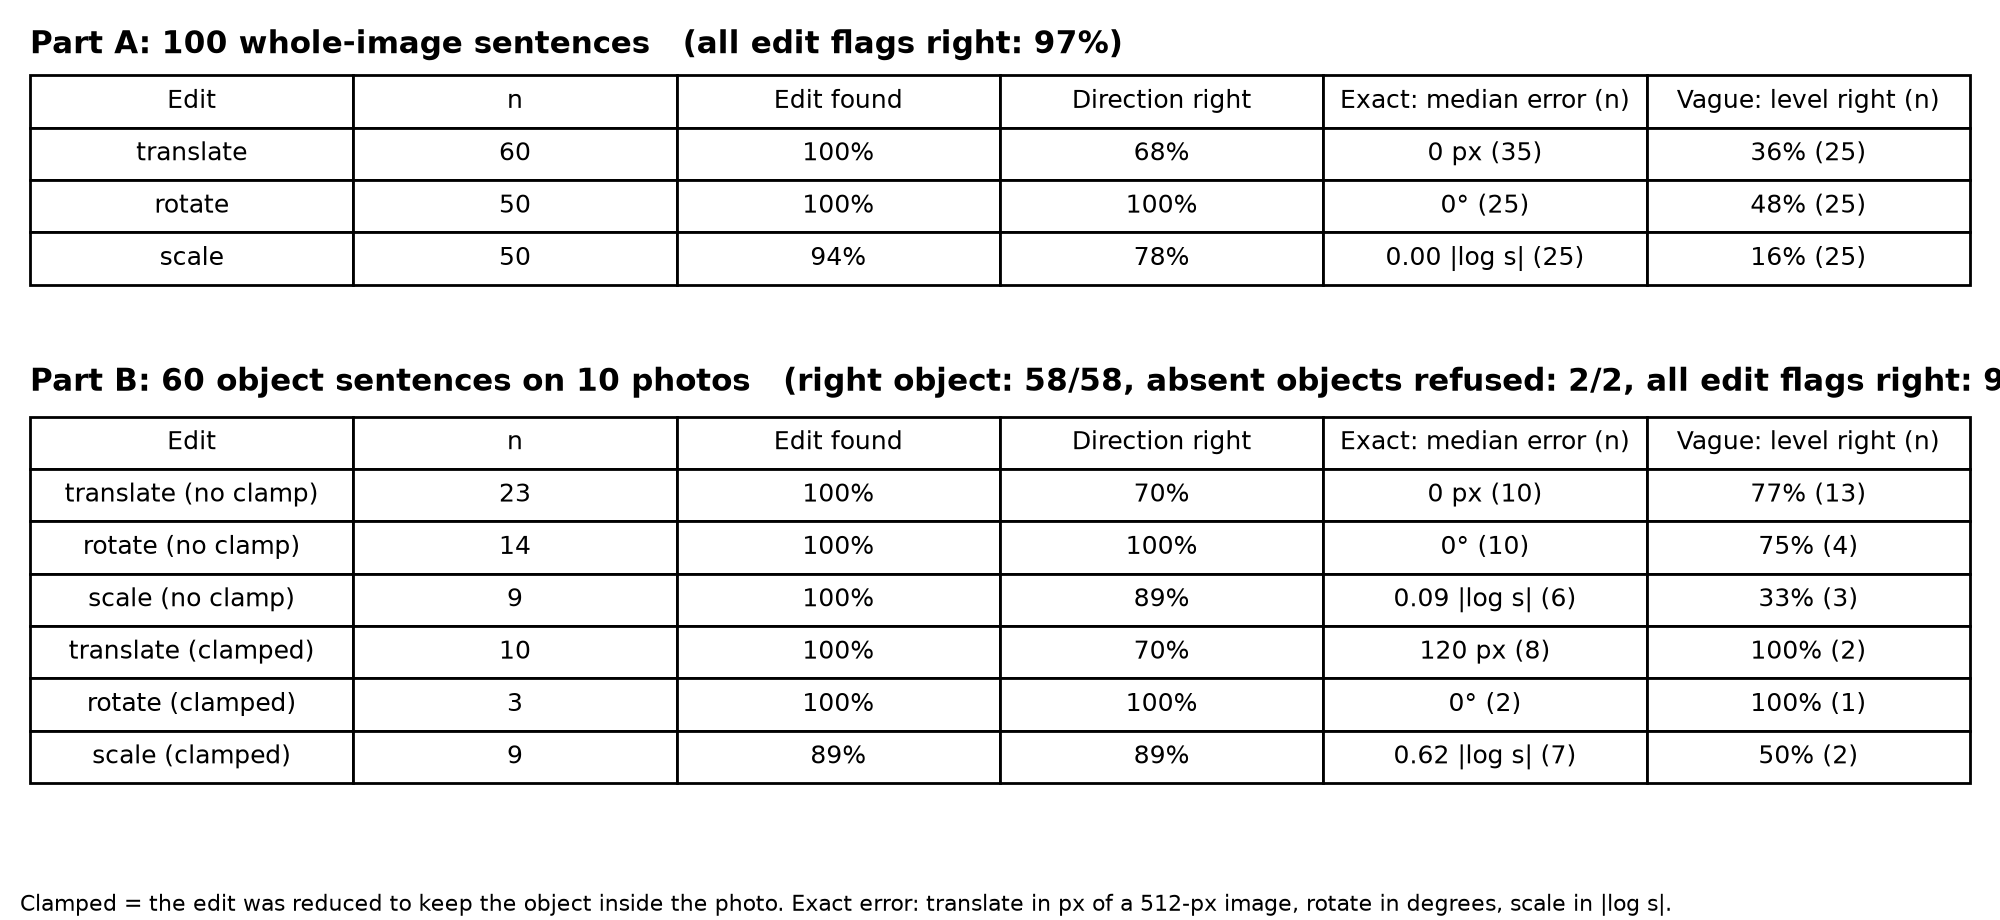
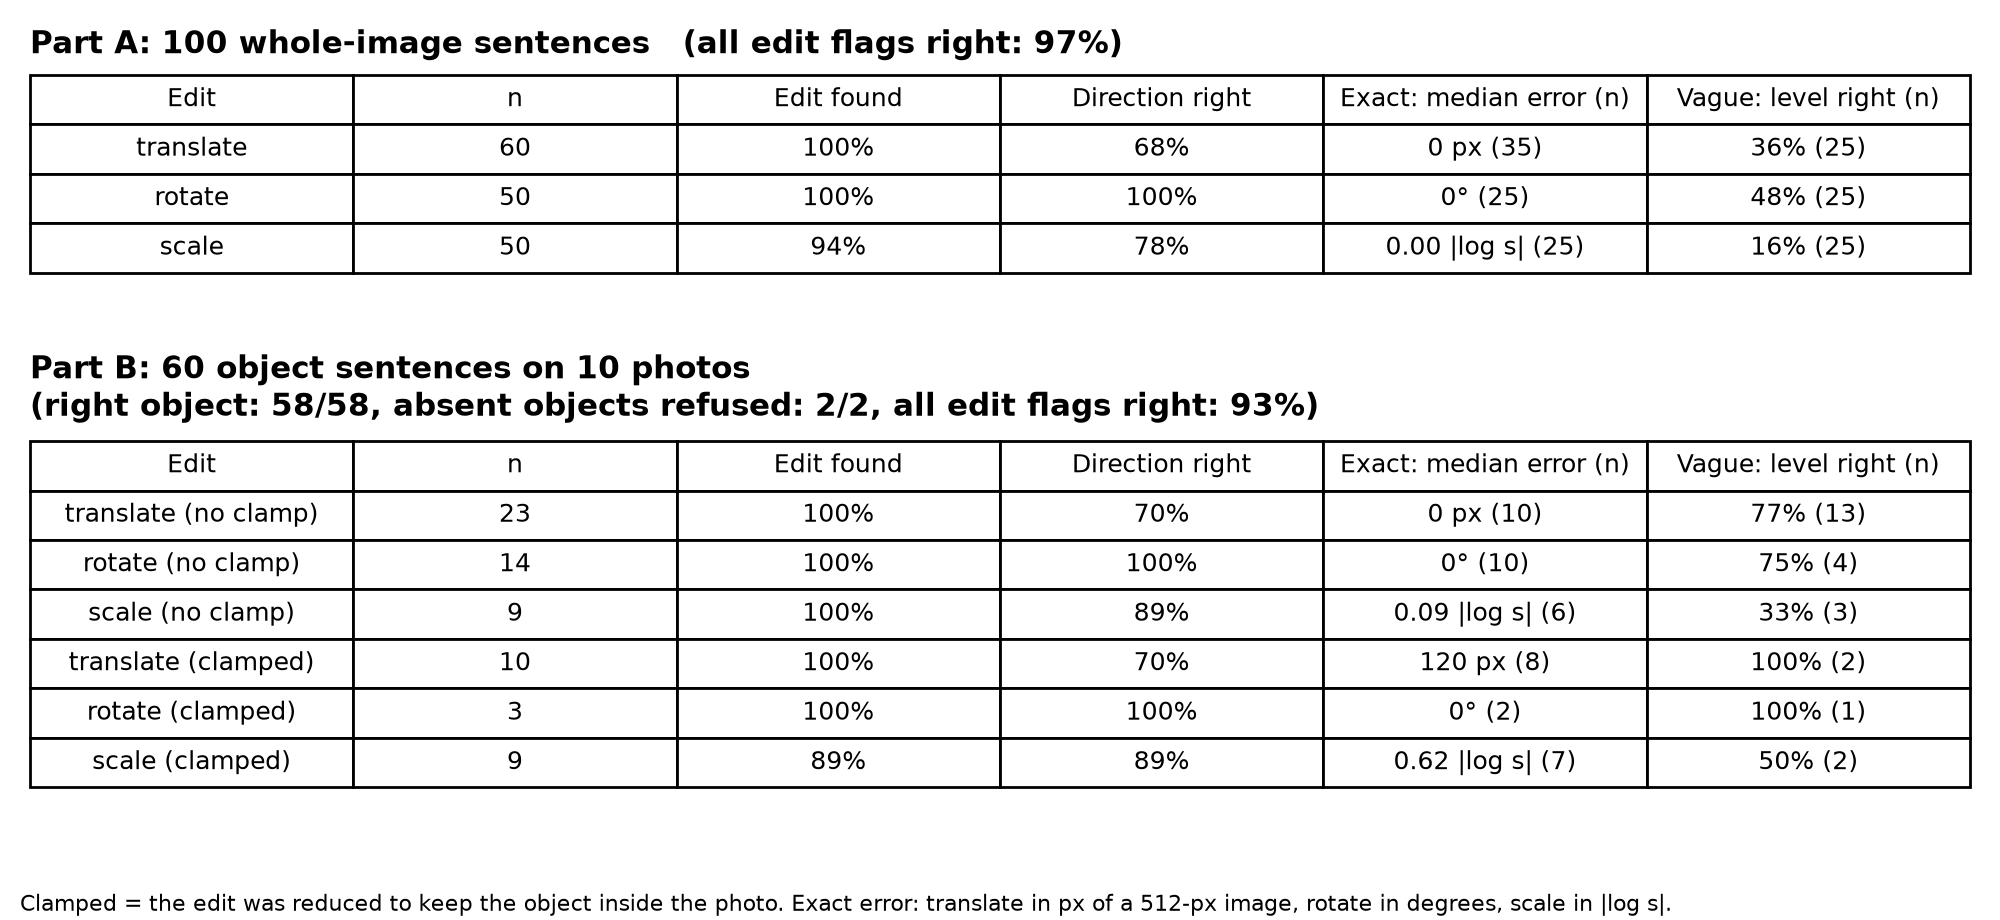
README for the finished system; --share; run_all scene steps; SEEN_VERBS; table title
Claude-Session: https://claude.ai/code/session_01WSyrYXSzuntPbgrydht9TQ

Changed region(s): [[0.0, 0.3652, 1.0, 0.8826], [0.0, 0.0913, 0.992, 0.3348]]

diff --git a/tools/fig_fresh_tables.py b/tools/fig_fresh_tables.py
@@ -39,7 +39,7 @@ body_b = (rows(b[~b["clamped"] & ~b["failed"]], " (no clamp)") + rows(b[b["clamp
 fig, (top, bottom) = plt.subplots(2, 1, figsize=(10, 4.6), gridspec_kw={"height_ratios": [1, 1.7]})
 table(top, f"Part A: {len(sa)} whole-image sentences   (all edit flags right: {sa['presence_ok'].mean():.0%})",
       rows(a))
-table(bottom, f"Part B: {len(sb)} object sentences on 10 photos   (right object: "
+table(bottom, f"Part B: {len(sb)} object sentences on 10 photos\n(right object: "
       f"{present['object_ok'].sum()}/{len(present)}, absent objects refused: {int(sb['failed'].sum())}/2, "
       f"all edit flags right: {present['presence_ok'].mean():.0%})", body_b)
 fig.text(0.01, 0.01, "Clamped = the edit was reduced to keep the object inside the photo. "

diff --git a/src/dyooptix/models/breakdown.py b/src/dyooptix/models/breakdown.py
@@ -10,7 +10,8 @@ from dyooptix.models.metrics import evaluate
 from dyooptix.models.mlp import REPS, GatedMLP, load_features, predict, standardise
 
 SPLITS = ["test", "test_unseen_templates", "geobench"]
-SEEN_VERBS = vocab.TRANSLATE_VERBS + vocab.ROTATE_VERBS + vocab.SCALE_UP_VERBS + vocab.SCALE_DOWN_VERBS
+SEEN_VERBS = (vocab.TRANSLATE_VERBS + vocab.ROTATE_VERBS + vocab.SCALE_UP_VERBS + vocab.SCALE_DOWN_VERBS
+              + vocab.SCALE_NEUTRAL_VERBS)
 
 
 def load_rows(split):

diff --git a/app.py b/app.py
@@ -85,4 +85,4 @@ demo = gr.Interface(
 )
 
 if __name__ == "__main__":
-    demo.launch()
+    demo.launch(share="--share" in sys.argv)   # python app.py --share: temporary public link

diff --git a/README.md b/README.md
@@ -1,7 +1,9 @@
 # Predicting Geometric Edit Parameters from Natural Language
 
-Type an edit instruction such as *"rotate it 90 degrees clockwise and shrink it to 0.7x"*;
-the model predicts the **translation, rotation and scale** it describes and applies them to an image.
+Type an edit instruction such as *"move the cup 100 px to the right and rotate it 20 degrees clockwise"*;
+the system predicts the **translation, rotation and scale** it describes, finds the object it names in
+the photo, and applies the edit. Some amounts come from the picture itself:
+*"move the circle until it touches the square"* moves exactly as far as the gap in that image.
 
 IE 643 Deep Learning, IIT Bombay · Team **DyoOptix**: Kaushik Kuppili (26M1507), Akash Gudi (26M1516)
 
@@ -9,18 +11,35 @@ IE 643 Deep Learning, IIT Bombay · Team **DyoOptix**: Kaushik Kuppili (26M1507)
 
 ## How it works
 
-1. **Text → numbers.** Each instruction is encoded with one of five text representations:
-   hand-crafted keyword features, TF-IDF, frozen CLIP (ViT-B/32 text encoder), frozen MiniLM
-   (all-MiniLM-L6-v2), or hand features + MiniLM side by side.
-2. **Numbers → edit.** A small **gated multi-head MLP** predicts which edits are present
-   (translate / rotate / scale) and their values `[tx, ty, cos θ, sin θ, log s]`.
-   Edits judged absent are set to "do nothing".
-3. **Edit → image.** The values become a 2×3 affine matrix applied to the **whole image about
-   its centre** (OpenCV, bilinear for images, nearest for masks).
+**Text lane (Stage 1, plus inference-time rules)**
 
-Training data is synthetic (7,000 generated instructions with exact targets). Evaluation uses
-held-out synthetic splits, unseen sentence templates, the GeoBench 2D benchmark (unseen wording,
-real images) and a set of 98 human-written instructions.
+1. **Clauses.** A combined instruction is split at *and / then / commas*; each clause is predicted
+   separately and the edits are added up (exact, because rotation and scale act about the object's
+   own centre). Inference only, no retraining.
+2. **Text → numbers.** Each clause is encoded with hand-crafted keyword features (44 flags + 4 numbers)
+   and frozen MiniLM (all-MiniLM-L6-v2) side by side. A small **gated multi-head MLP** predicts which
+   edits are present (translate / rotate / scale) and their values `[tx, ty, cos θ, sin θ, log s]`.
+   Edits judged absent are set to "do nothing".
+3. **Exact numbers.** When a clause writes an amount (degrees, radians, px, %, ×, times, double/half),
+   that number replaces the network's guess; the network keeps the edit type and direction.
+   Moves are snapped to the 4 main directions (8 when the clause names a diagonal).
+
+**Image lane (novelty)**
+
+4. **Which object.** Grounding DINO turns the object word into a box and SAM turns the box into a mask
+   (Grounded-SAM). If no object is named, the main object is edited; "the image / picture / photo"
+   edits the whole image. A named object that is not in the photo is refused with a message.
+5. **Edits from the scene.** "until it touches the X", "beside / next to / near the X",
+   "to the left of the X" and "until it touches the left edge" are measured from the masks:
+   the text gives the direction, the picture gives the distance.
+6. **Clamp.** An object edit is reduced, with a ⚠ warning, so the object stays inside the photo
+   (scale, then rotation, then translation).
+7. **Edit → image.** One 2×3 affine matrix. Whole image: warped about its centre. One object: LaMa fills
+   the hole it leaves and the moved object is pasted with a soft edge.
+
+Training data is synthetic (7,000 generated instructions with exact targets). Evaluation uses held-out
+synthetic splits, unseen sentence templates, the GeoBench 2D benchmark (unseen wording, real images),
+98 human-written instructions, a shape test set with exact expected moves, and a fresh LLM-written test set.
 
 ## Setup
 
@@ -34,28 +53,37 @@ python -m venv .venv
 .\.venv\Scripts\Activate.ps1
 pip install -r requirements.txt --extra-index-url https://download.pytorch.org/whl/cpu
 pip install -e .
+pytest                               # 74 tests; no model downloads
 ```
 
-The trained models are included in `outputs/`, so the demo runs without training.
+The trained text models are included in `outputs/`, so the demo runs without training.
+Grounding DINO, SAM and LaMa download on first use (over 1 GB in total) into `data/hf_cache`;
+set the environment variable `DYOOPTIX_CACHE` to put them elsewhere.
 
 ## Run the demo
 
 ```powershell
-python app.py
+python app.py            # local: http://127.0.0.1:7860
+python app.py --share    # also a temporary public link
 ```
 
-Open the printed local URL (usually http://127.0.0.1:7860). Type an instruction, optionally upload
-an image (otherwise a test card with a grid and an upward arrow is used), and choose a text
-representation:
+Type an instruction, optionally upload a photo (otherwise a test card with a grid, a square, a circle
+and an upward arrow is used), and optionally type an object in the **Object** box to choose which object
+moves. The output shows the edited image, the detected edits with their probabilities, tx/ty in pixels,
+the angle, the scale factor, the affine matrix and any clamp warnings. When several objects look equally
+like the main one, a second image shows the candidates.
 
-- **hand+minilm** (default): best on wording the model was not trained on
-- **hand**: most precise with known words and exact numbers
-- **minilm**: sentence embedding only
+The best text model (hand features + MiniLM) is used automatically. **Advanced** lets you compare
+hand / MiniLM alone and turn clause splitting off.
 
-The output shows the edited image, the detected edits with their probabilities, tx/ty in pixels,
-the angle, the scale factor and the affine matrix.
+On a CPU a whole-image edit is instant; an object edit on a large photo takes about 15 s once the models
+are loaded (the first click on a photo also runs detection and segmentation).
 
-## Reproduce all results
+Conventions used by the demo: a rotation with no direction word is counter-clockwise; a number with no
+unit is pixels for moves and degrees for turns; "to 75%" means ×0.75 and "by 30%" means ×1.3 or ×0.7;
+"N px" means N real pixels of the uploaded photo.
+
+## Reproduce the results
 
 ```powershell
 python tools/download_geobench.py   # once: GeoBench 2D into data/hf_cache
@@ -65,13 +93,25 @@ python tools/download_geobench.py   # once: GeoBench 2D into data/hf_cache
 `run_all.ps1` runs, in order and stopping at the first failure: unit tests → data generation and
 splits → GeoBench test file → text encoding → constant and ridge baselines → gated MLP (3 seeds)
 → per-group breakdown and noise-floor oracle → GeoBench image warping and IoU → human test set →
-report figures. It takes roughly 15–25 minutes on a CPU. Results are written to `outputs/`
-(CSV tables, models, `outputs/figures/`).
+whole vs split vs split + exact numbers → shape test set → scene-derived edits on the shape set →
+report figures. Results are written to `outputs/`.
+
+Run by hand (the fresh-set scorer overwrites the committed one-time results):
+
+```powershell
+python -m dyooptix.models.fig_scene      # one sentence, four gaps: outputs/fig_scene_gaps.png
+python tools/fig_demo.py                 # demo examples with predicted parameters
+python -m dyooptix.models.eval_fresh     # fresh LLM-written test set (scored once on 21 Nov 2026)
+python tools/fig_fresh_charts.py
+python tools/fig_fresh_tables.py
+```
+
+`git checkout stage1` gives the exact code submitted for the intensive assessment.
 
 ## Results
 
-Corner displacement error of a 512×512 image (px, lower is better), gated MLP, mean ± std over
-3 seeds:
+**Stage 1** (generator v3). Corner displacement error of a 512×512 image (px, lower is better),
+gated MLP, mean ± std over 3 seeds:
 
 | Representation | Test | Unseen templates | GeoBench |
 |---|---|---|---|
@@ -83,24 +123,29 @@ Corner displacement error of a 512×512 image (px, lower is better), gated MLP, 
 | TF-IDF | 113.4 ± 2.4 | 73.9 ± 3.6 | 108.1 ± 2.9 |
 | oracle (noise floor) | 23.2 | 19.6 | – |
 
-- Hand features are best on the training vocabulary; hand + MiniLM is best on unseen wording.
-- On GeoBench images, transform-consistency IoU is 0.555 for hand + MiniLM and 0.536 for hand,
-  against 0.457 for doing nothing.
-- On the 98 human-written instructions, hand + MiniLM detects the right set of edits in 78% of
-  sentences. Direction is the main weakness: 0.43 for translation, 0.57 for rotation, 0.81 for scale.
+**Novelty** (generator v4 + inference rules, hand + MiniLM):
+
+- Combined edits, synthetic test, corner error: 103.8 px (whole sentence) → 55.4 (clause splitting)
+  → 43.3 (+ exact numbers); noise floor 40.4.
+- Scene-derived edits ("until it touches", "beside", "until the edge") on 56 shape images with no number
+  in the sentence: **56/56 within 3 px** of the exact geometric move, with true masks and with
+  Grounded-SAM masks. The same sentence on four gaps moves +40 / +100 / +180 / +260 px
+  (exact +39 / +99 / +179 / +259).
+- Fresh LLM-written set, scored once. Part A (100 whole-image sentences): all edit flags right 97%;
+  direction right translate 68%, rotate 100%, scale 78%; written amounts median error 0 px / 0°.
+  Part B (60 object sentences, 10 photos): right object 58/58, both absent objects refused.
+  The set was written by an LLM, so these numbers are likely optimistic.
 
 ## Known limitations
 
-- **Direction wording.** Rotations phrased as "turn left/right" and bare "left/right" for
-  translation were not in the training vocabulary, so their direction is often wrong.
-- **Number formats.** Percentages ("by 30%"), "times", "twice/half" and numbers without units
-  ("rotate 45") are not reliably read.
-- **Combined edits.** With two or three edits in one sentence, amounts can be attached to the
-  wrong edit.
-- **Scope.** Edits are relative and apply to the whole image. Absolute positions ("move it to the
-  corner"), flips, and edits to one specific object are not supported.
-- Ranges: explicit rotations up to 180°, translations up to 300 px (at 512 px width),
-  scale ×0.25 to ×4.
+- **Diagonal moves** are often kept on one axis (19 of the 41 direction errors on the fresh set).
+- **"upward", "leftward"** (GeoBench-style words without the "s") are not in the training vocabulary.
+- **Vague sizes**: "slightly" from a new writer often lands in another size level.
+- **Scope**: one object per instruction; 2D edits only (no shadows or depth); no absolute positions
+  ("to the corner"), flips or word-only angles ("upside down").
+- **Speed**: object edits take seconds on a CPU.
+- Ranges learned by the network: rotations up to 180°, moves up to 300 px at 512 width, scale ×0.25 to ×4
+  (written numbers are copied exactly, so they are not limited by these ranges).
 
 ## Repository layout
 
@@ -108,18 +153,21 @@ Corner displacement error of a 512×512 image (px, lower is better), gated MLP, 
 |---|---|
 | `app.py` | Gradio demo |
 | `run_all.ps1` | one-command pipeline |
-| `src/dyooptix/data/` | vocabulary, magnitude ranges, data generator, splits, GeoBench conversion |
-| `src/dyooptix/geom/` | affine matrix construction and image warping |
-| `src/dyooptix/models/` | text encoding, metrics, baselines, gated MLP, evaluation, figures |
-| `tests/` | unit tests for the affine maths |
-| `tools/` | GeoBench download and inspection scripts |
+| `src/dyooptix/data/` | vocabulary, magnitude ranges, data generator, splits, GeoBench conversion, shape test set |
+| `src/dyooptix/geom/` | affine matrix, image warping, clamp, Grounded-SAM grounding, LaMa inpainting, object editing, contact geometry |
+| `src/dyooptix/models/` | text encoding, metrics, baselines, gated MLP, evaluations, clause splitting, exact numbers, relations, scene, pipeline, figures |
+| `tests/` | 74 unit tests |
+| `tools/` | GeoBench download and statistics, figure scripts; `tools/smoke/` smoke scripts |
 | `spec/transform_spec.md` | coordinate and parameter conventions |
-| `data/human/` | the human-written test set and its out-of-scope sentences |
-| `outputs/` | trained models (generated tables and figures are not tracked) |
+| `data/human/` | the 98-sentence human-written test set and its out-of-scope sentences |
+| `data/human_fresh/` | the fresh LLM-written test set (100 + 60 sentences, 10 photos) |
+| `samples/` | development photos used by `tools/fig_demo.py` |
+| `outputs/` | trained models, poster figures and the fresh-set scores |
 | `progress.md` | dated log of decisions and results |
 
 ## Conventions
 
 Image coordinates with **+x right and +y down**; positive angles are **counter-clockwise** on
-screen; translation is a fraction of image width (explicit pixel amounts refer to a 512-px-wide
-image); scale is uniform. Full details in `spec/transform_spec.md`.
+screen; translation is a fraction of image width (explicit pixel amounts are real pixels of the image);
+scale is uniform; object edits turn and resize about the object's centroid. Full details in
+`spec/transform_spec.md`.

diff --git a/progress.md b/progress.md
@@ -363,3 +363,10 @@
 - Dev photos moved to samples/ (inputs for tools/fig_demo.py); smoke scripts moved to tools/smoke/.
 - .gitignore rewritten: figures, model weights and data/human_fresh/ are now tracked without -f.
 - 74 tests pass.
+## 2026-11-21 · Loose ends after the guide review
+- README rewritten for the finished system: object editing, scene-derived edits, Object box, test sets, novelty results, limitations, `--share`.
+- app.py: `python app.py --share` now gives a public link (it never read the flag before).
+- run_all.ps1: shape test set and scene evaluation added after eval_split; the fresh-set scorer stays manual (it overwrites the one-time record).
+- breakdown.py: SEEN_VERBS includes the neutral verbs scale and resize, which are training verbs.
+- fig_fresh_tables.py: Part B title on two lines (it was cut off at the right edge).
+- requirements.txt: simple-lama-inpainting added (it was imported by geom/inpaint.py but missing).
